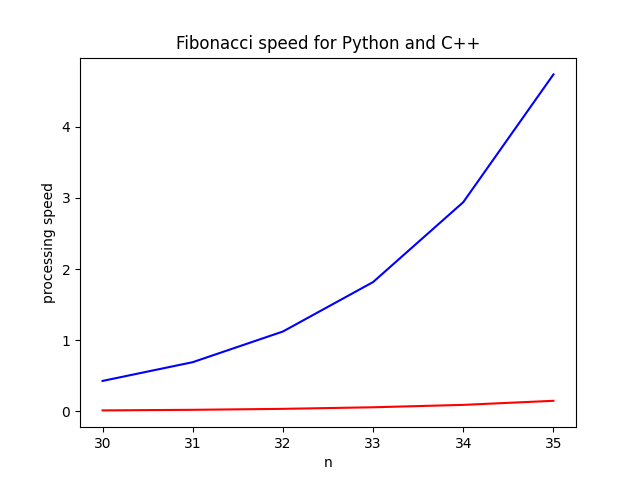
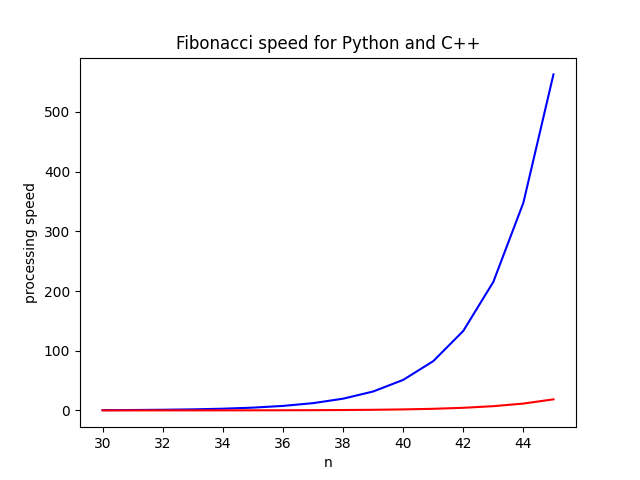
final version with correct numbers

diff --git a/ou4_2/ou4_2.py b/ou4_2/ou4_2.py
@@ -12,7 +12,7 @@ def fib_py(n):
 		return(fib_py(n-1)+fib_py(n-2))
 
 def main():
-	x = [n for n in range(30, 36)]
+	x = [n for n in range(30, 46)]
 	y_py, y_c = [], []
 	for n in x:
 		start = pc()
@@ -22,7 +22,7 @@ def main():
 	for n in x:
 		start = pc()
 		f = Heltal(n)
-		f.fib() 
+		f.fib()
 		end = pc()
 		y_c.append(end-start)
 	print (f"times py:{y_py}") #####################
